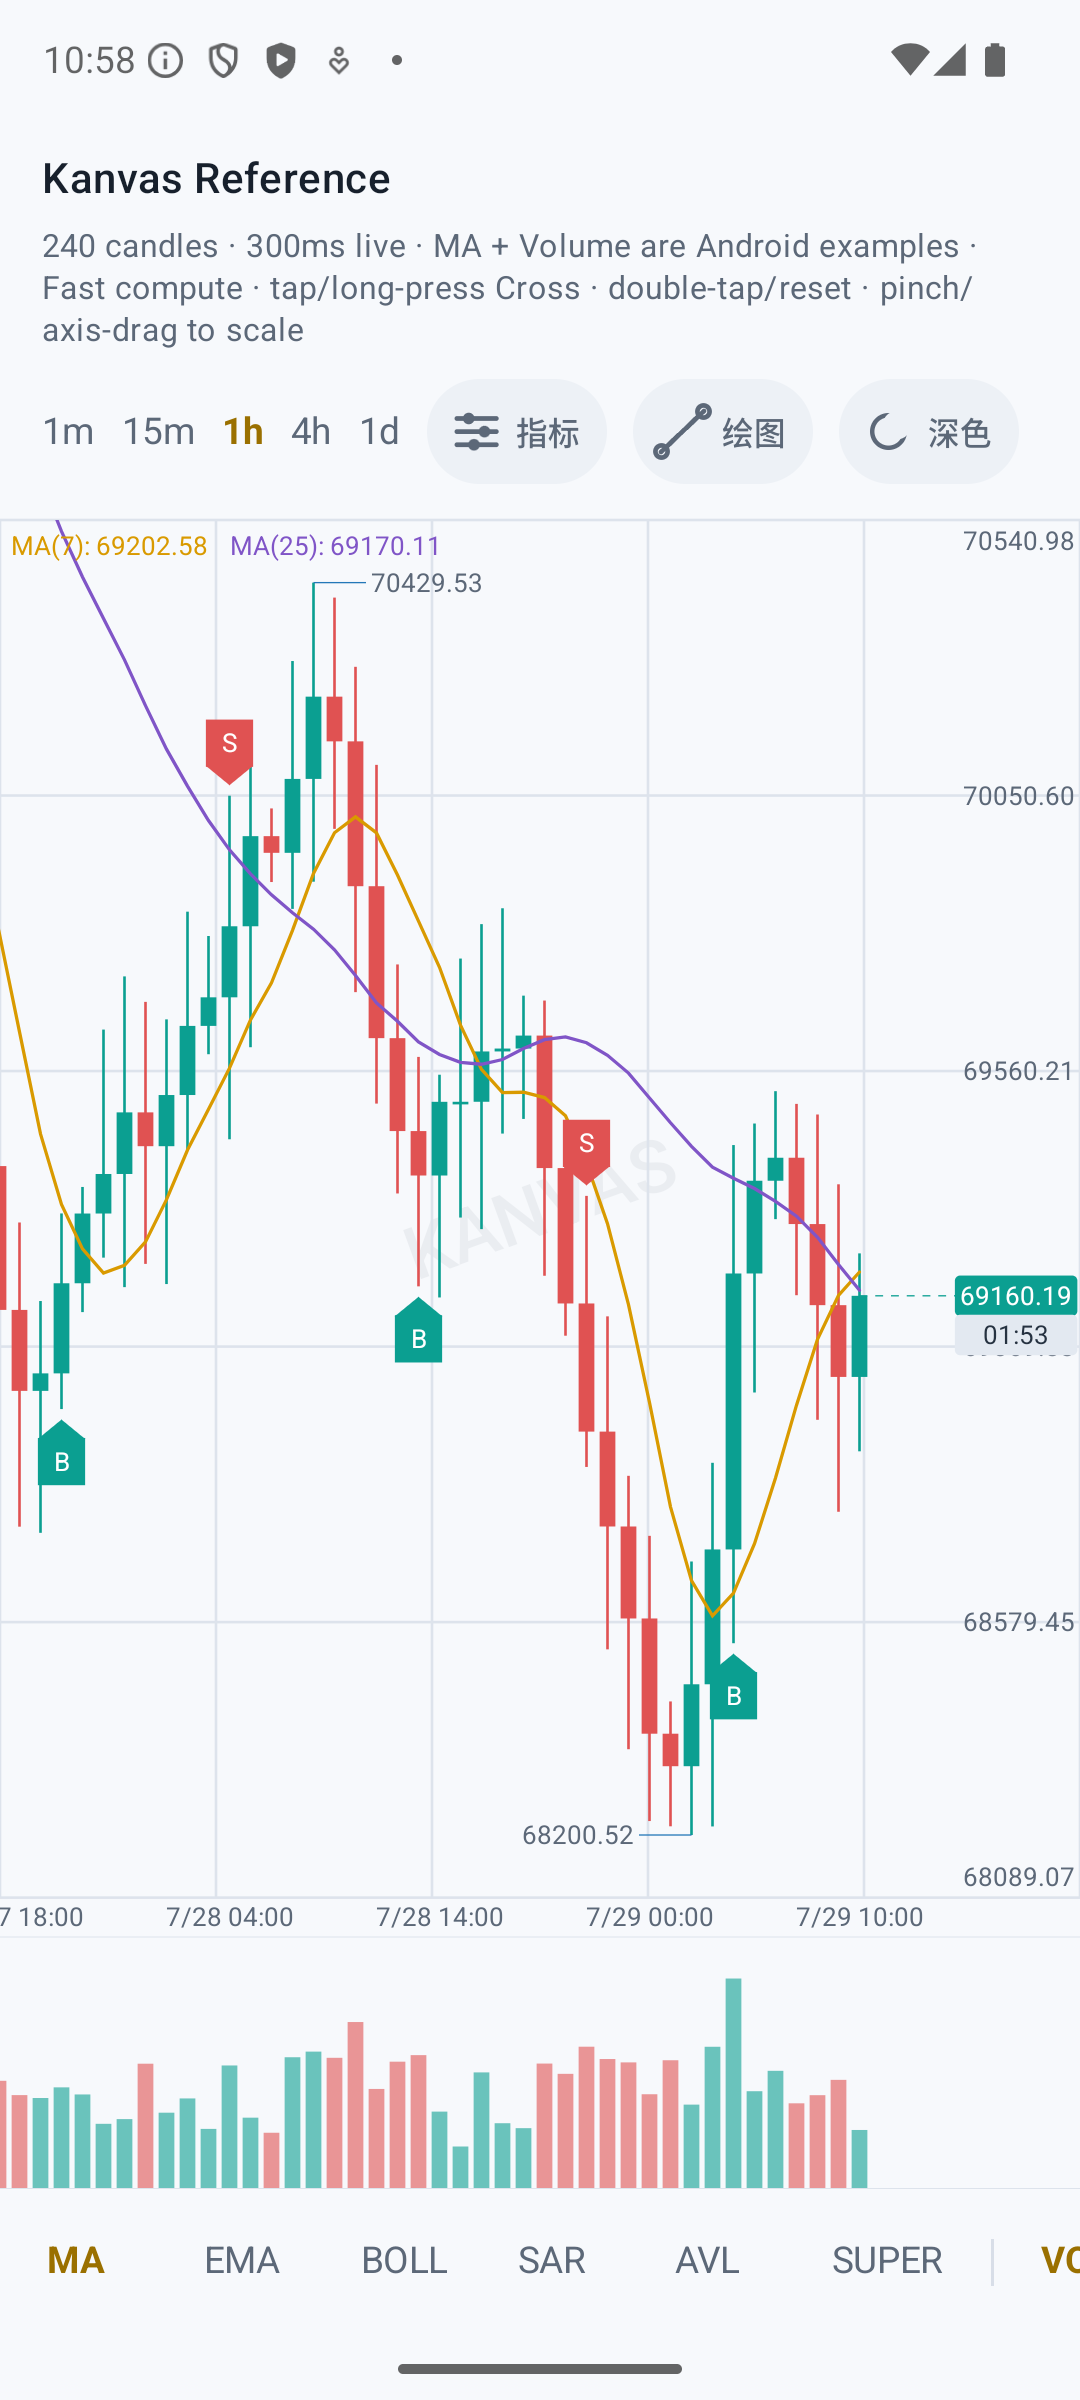
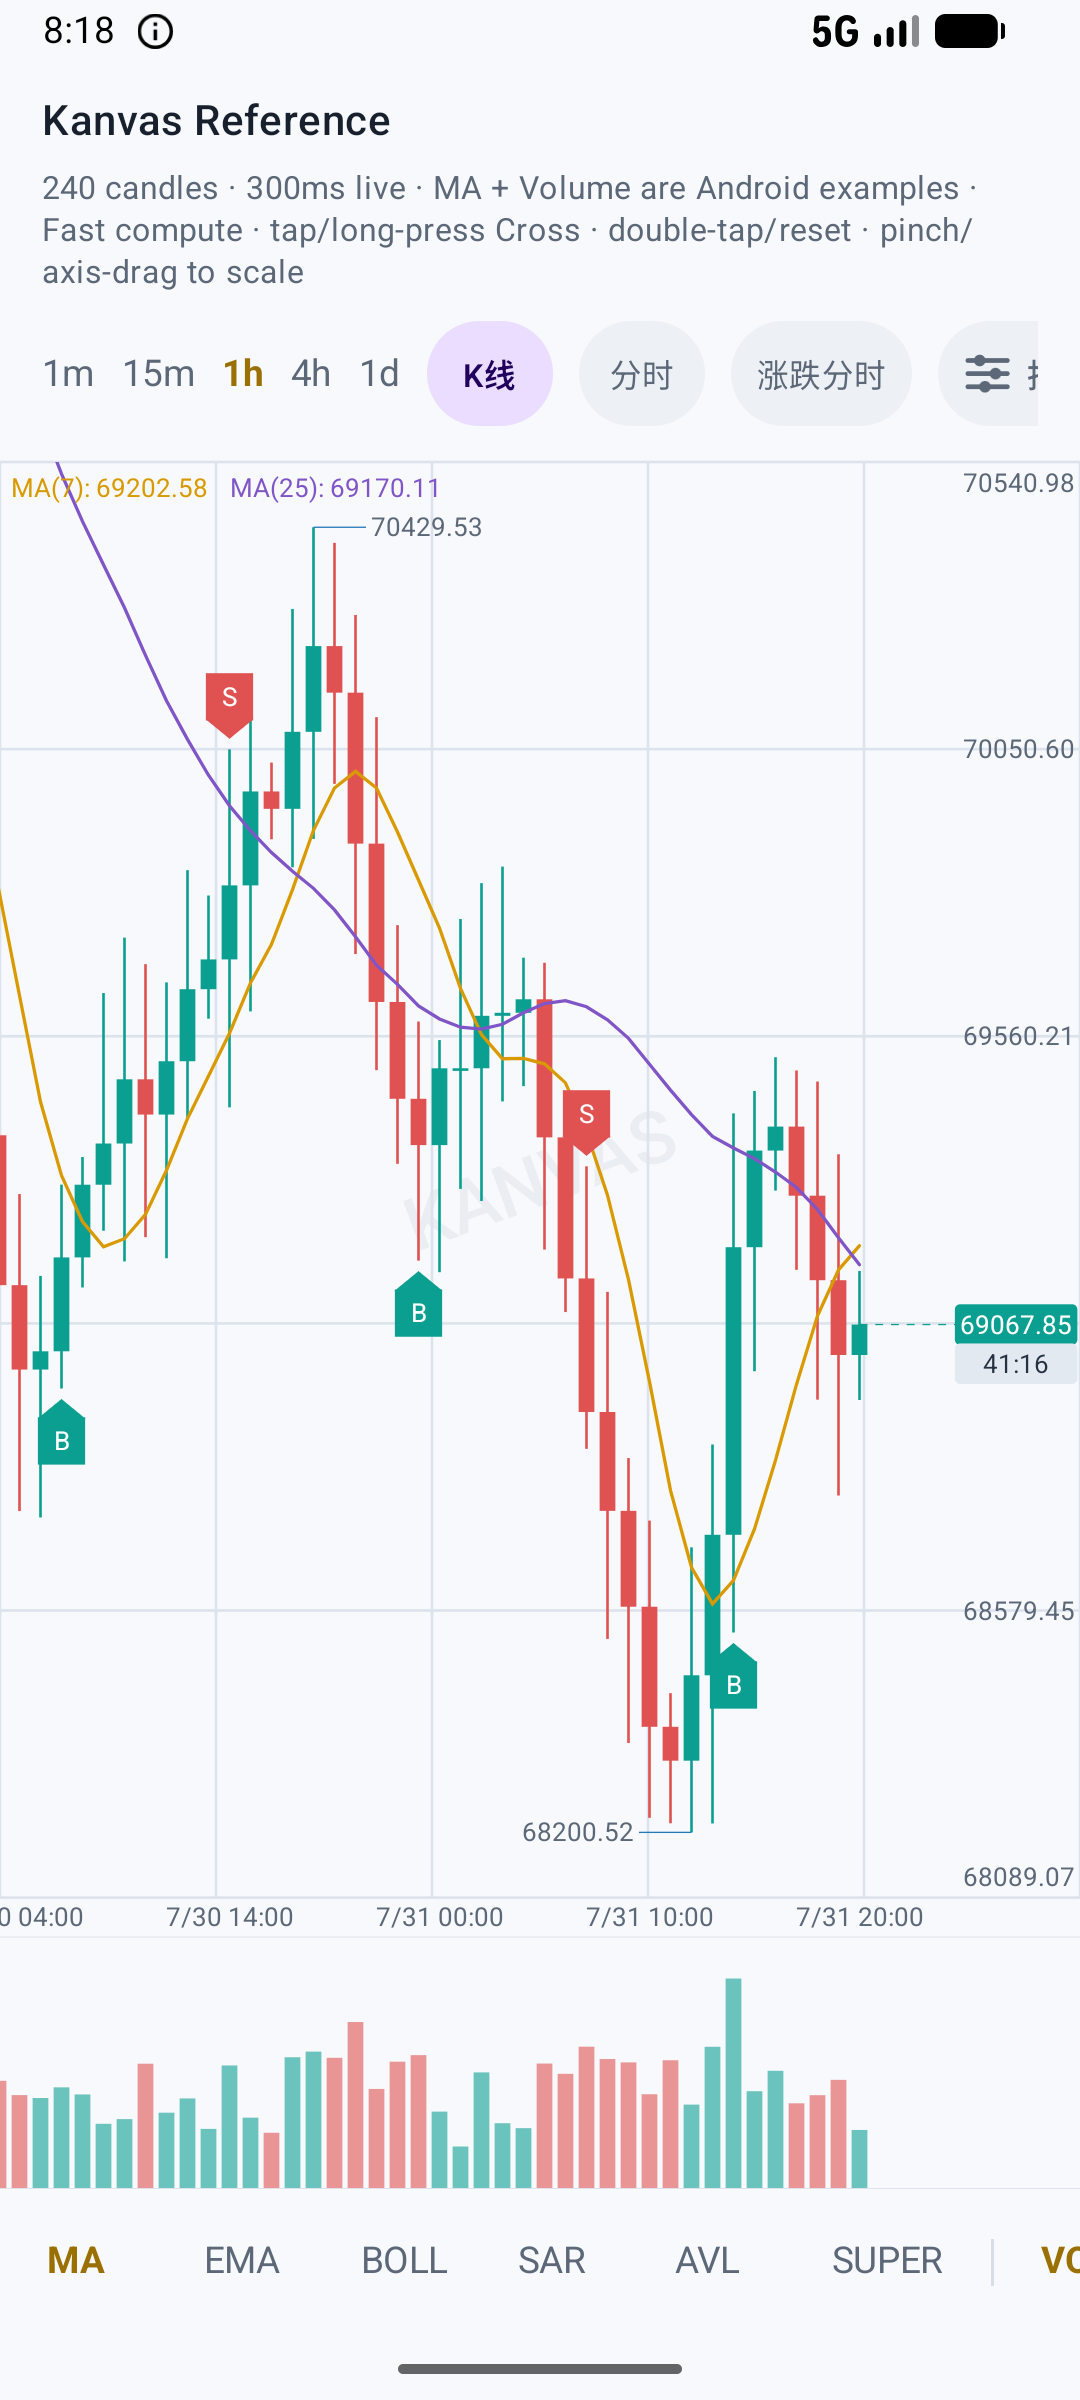
feat: add example line chart switcher

diff --git a/example/src/main/kotlin/com/zhumeng/kanvas/example/MainActivity.kt b/example/src/main/kotlin/com/zhumeng/kanvas/example/MainActivity.kt
@@ -64,6 +64,7 @@ import com.zhumeng.kanvas.KanvasWatermarkConfig
 import com.zhumeng.kanvas.KanvasWatermarkContent
 import com.zhumeng.kanvas.KlineChartStyle
 import com.zhumeng.kanvas.KlineChartType
+import com.zhumeng.kanvas.KlineLineStyle
 import com.zhumeng.kanvas.KlineIndicatorPluginCatalog
 import com.zhumeng.kanvas.KlineMovingAverageIndicatorConfig
 import com.zhumeng.kanvas.KlineMovingAverageIndicatorPlugin
@@ -372,6 +373,21 @@ private fun ReferenceSample(
                         style = MaterialTheme.typography.labelLarge,
                     )
                 }
+                ChartTypeAction(
+                    label = "K线",
+                    selected = chartType is KlineChartType.Bar,
+                    onClick = { chartType = KlineChartType.Bar() },
+                )
+                ChartTypeAction(
+                    label = "分时",
+                    selected = chartType == KlineChartType.Line(KlineLineStyle.Normal),
+                    onClick = { chartType = KlineChartType.Line(KlineLineStyle.Normal) },
+                )
+                ChartTypeAction(
+                    label = "涨跌分时",
+                    selected = chartType == KlineChartType.Line(KlineLineStyle.UpDown),
+                    onClick = { chartType = KlineChartType.Line(KlineLineStyle.UpDown) },
+                )
                 SampleToolbarAction(
                     label = "指标",
                     onClick = { showIndicatorSheet = true },
@@ -554,7 +570,7 @@ private fun ReferenceSample(
                         alpha = 0.06f,
                     ),
                 ),
-                orderMarkers = sampleOrderMarkers,
+                orderMarkers = if (chartType is KlineChartType.Bar) sampleOrderMarkers else emptyList(),
                 modifier = Modifier.fillMaxSize(),
             )
             if (showDrawingTools) {
@@ -862,6 +878,34 @@ private fun DrawingToolsIcon(color: Color) {
         drawLine(color, Offset(2f, size.height - 3f), Offset(size.width - 2f, 3f), stroke, cap = StrokeCap.Round)
         drawCircle(color, 2.3.dp.toPx(), Offset(2.5f, size.height - 3.5f), style = Stroke(stroke))
         drawCircle(color, 2.3.dp.toPx(), Offset(size.width - 2.5f, 3.5f), style = Stroke(stroke))
+    }
+}
+
+@Composable
+private fun ChartTypeAction(
+    label: String,
+    selected: Boolean,
+    onClick: () -> Unit,
+) {
+    val colors = MaterialTheme.colorScheme
+    Surface(
+        onClick = onClick,
+        modifier = Modifier.defaultMinSize(minWidth = 48.dp, minHeight = 40.dp),
+        shape = RoundedCornerShape(20.dp),
+        color = if (selected) colors.primaryContainer else colors.surfaceVariant,
+        contentColor = if (selected) colors.onPrimaryContainer else colors.onSurfaceVariant,
+    ) {
+        Box(
+            modifier = Modifier.padding(horizontal = 10.dp, vertical = 8.dp),
+            contentAlignment = Alignment.Center,
+        ) {
+            Text(
+                text = label,
+                maxLines = 1,
+                fontWeight = if (selected) FontWeight.SemiBold else FontWeight.Normal,
+                style = MaterialTheme.typography.labelMedium,
+            )
+        }
     }
 }
 

diff --git a/README.md b/README.md
@@ -32,6 +32,11 @@ and testing only; production distribution requires your own signing key.
   <img src="docs/images/kanvas-theme-dark-settings.png" alt="Kanvas dark theme indicator settings" width="300" />
 </p>
 
+<p align="center">
+  <img src="docs/images/kanvas-line.png" alt="Kanvas normal intraday line chart" width="300" />
+  <img src="docs/images/kanvas-line-up-down.png" alt="Kanvas bullish and bearish intraday line chart" width="300" />
+</p>
+
 ## Contents
 
 - [Quick start](#quick-start)

diff --git a/README.zh-CN.md b/README.zh-CN.md
@@ -29,6 +29,11 @@ Kanvas 是使用 Kotlin 和 Jetpack Compose 构建的 Android 原生 K 线图、
   <img src="docs/images/kanvas-theme-dark-settings.png" alt="Kanvas 深色主题指标设置" width="300" />
 </p>
 
+<p align="center">
+  <img src="docs/images/kanvas-line.png" alt="Kanvas 普通分时图" width="300" />
+  <img src="docs/images/kanvas-line-up-down.png" alt="Kanvas 涨跌双色分时图" width="300" />
+</p>
+
 ## 目录
 
 - [快速开始](#快速开始)
